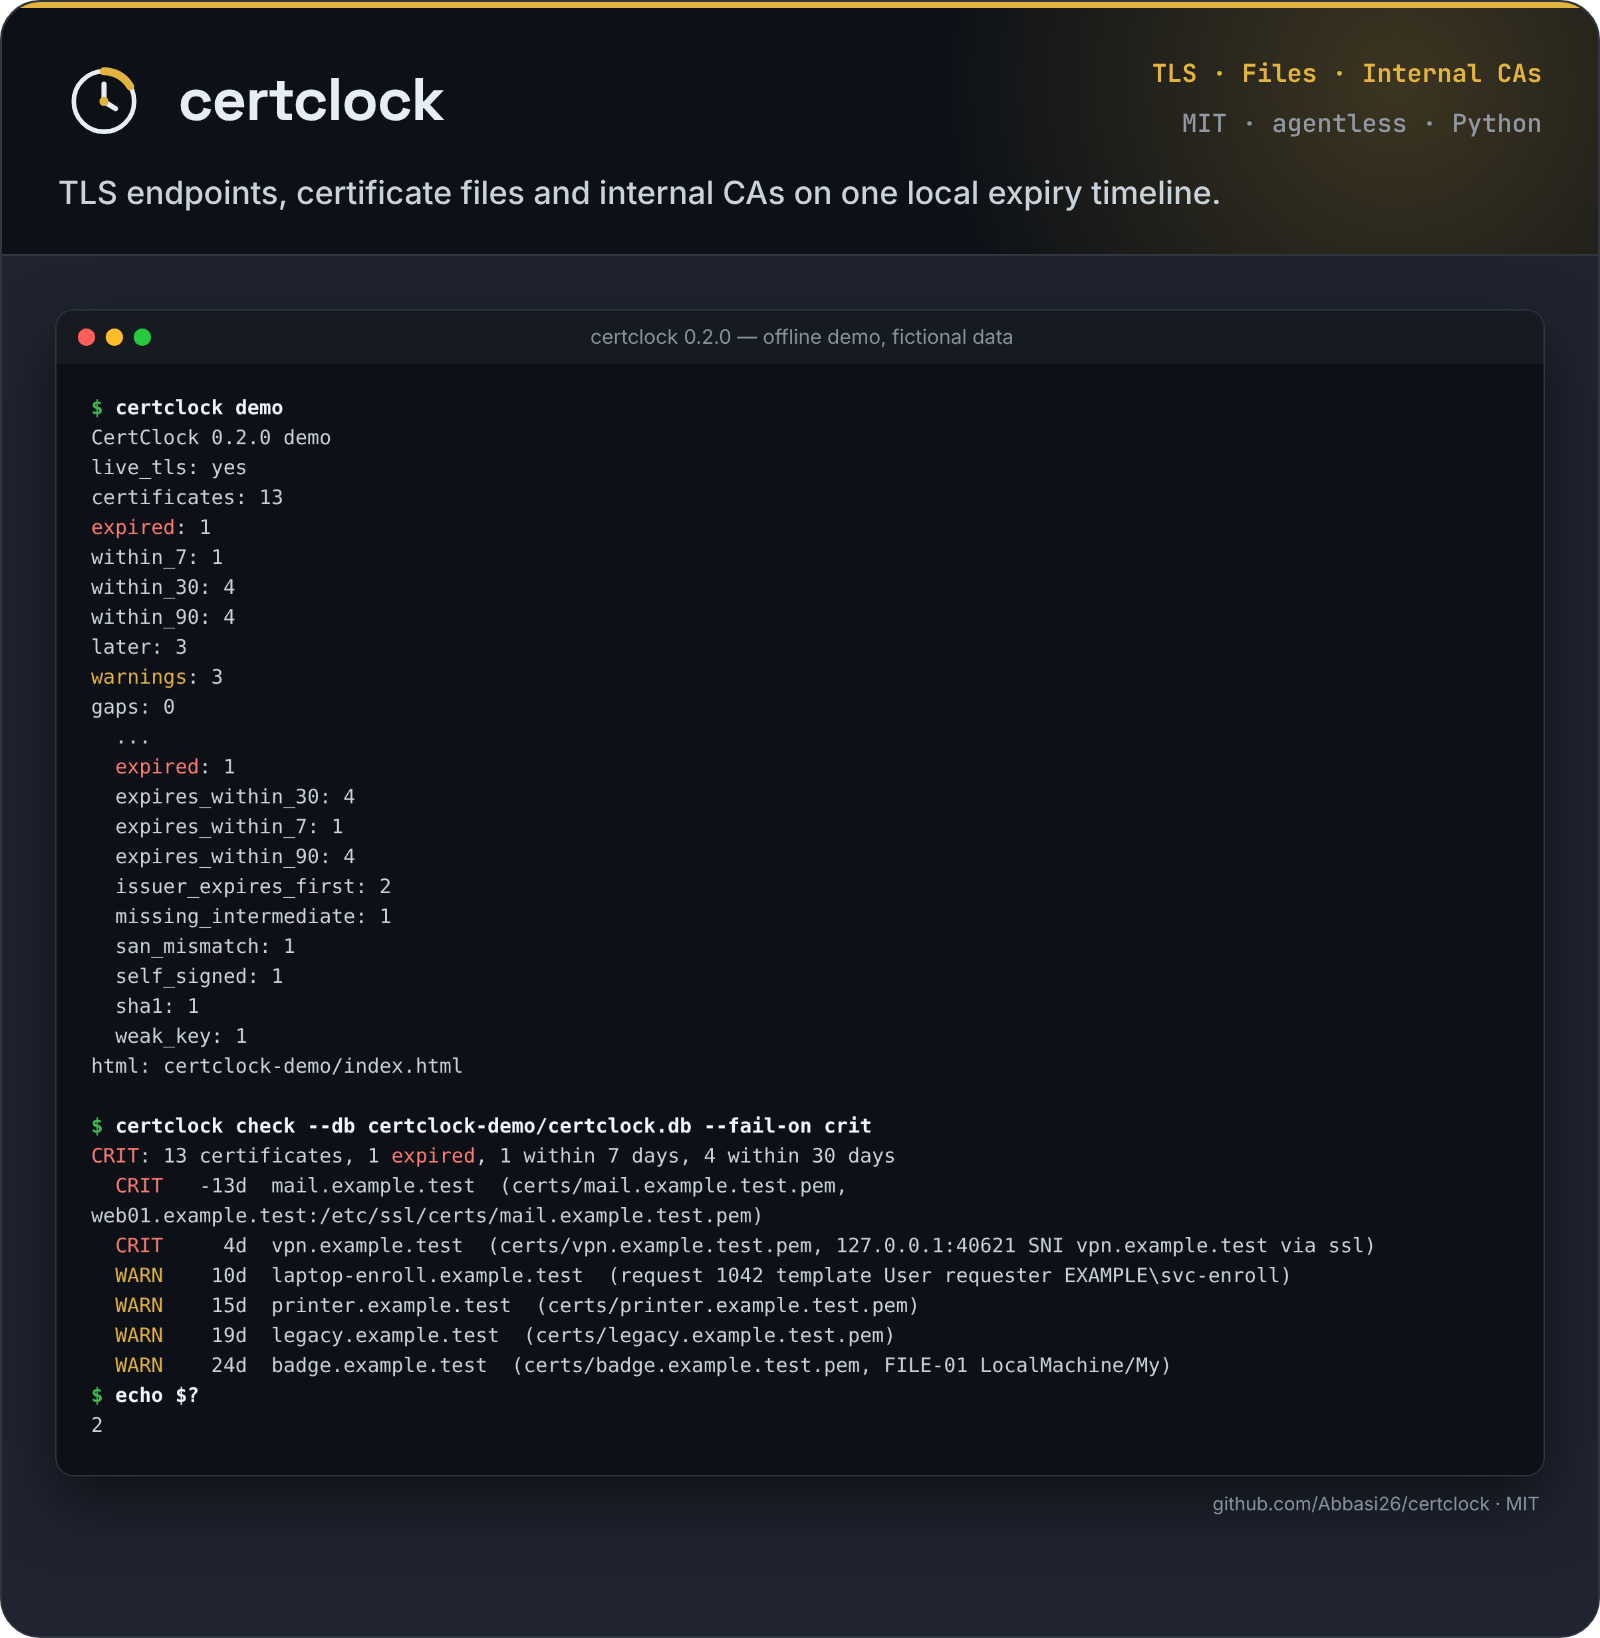
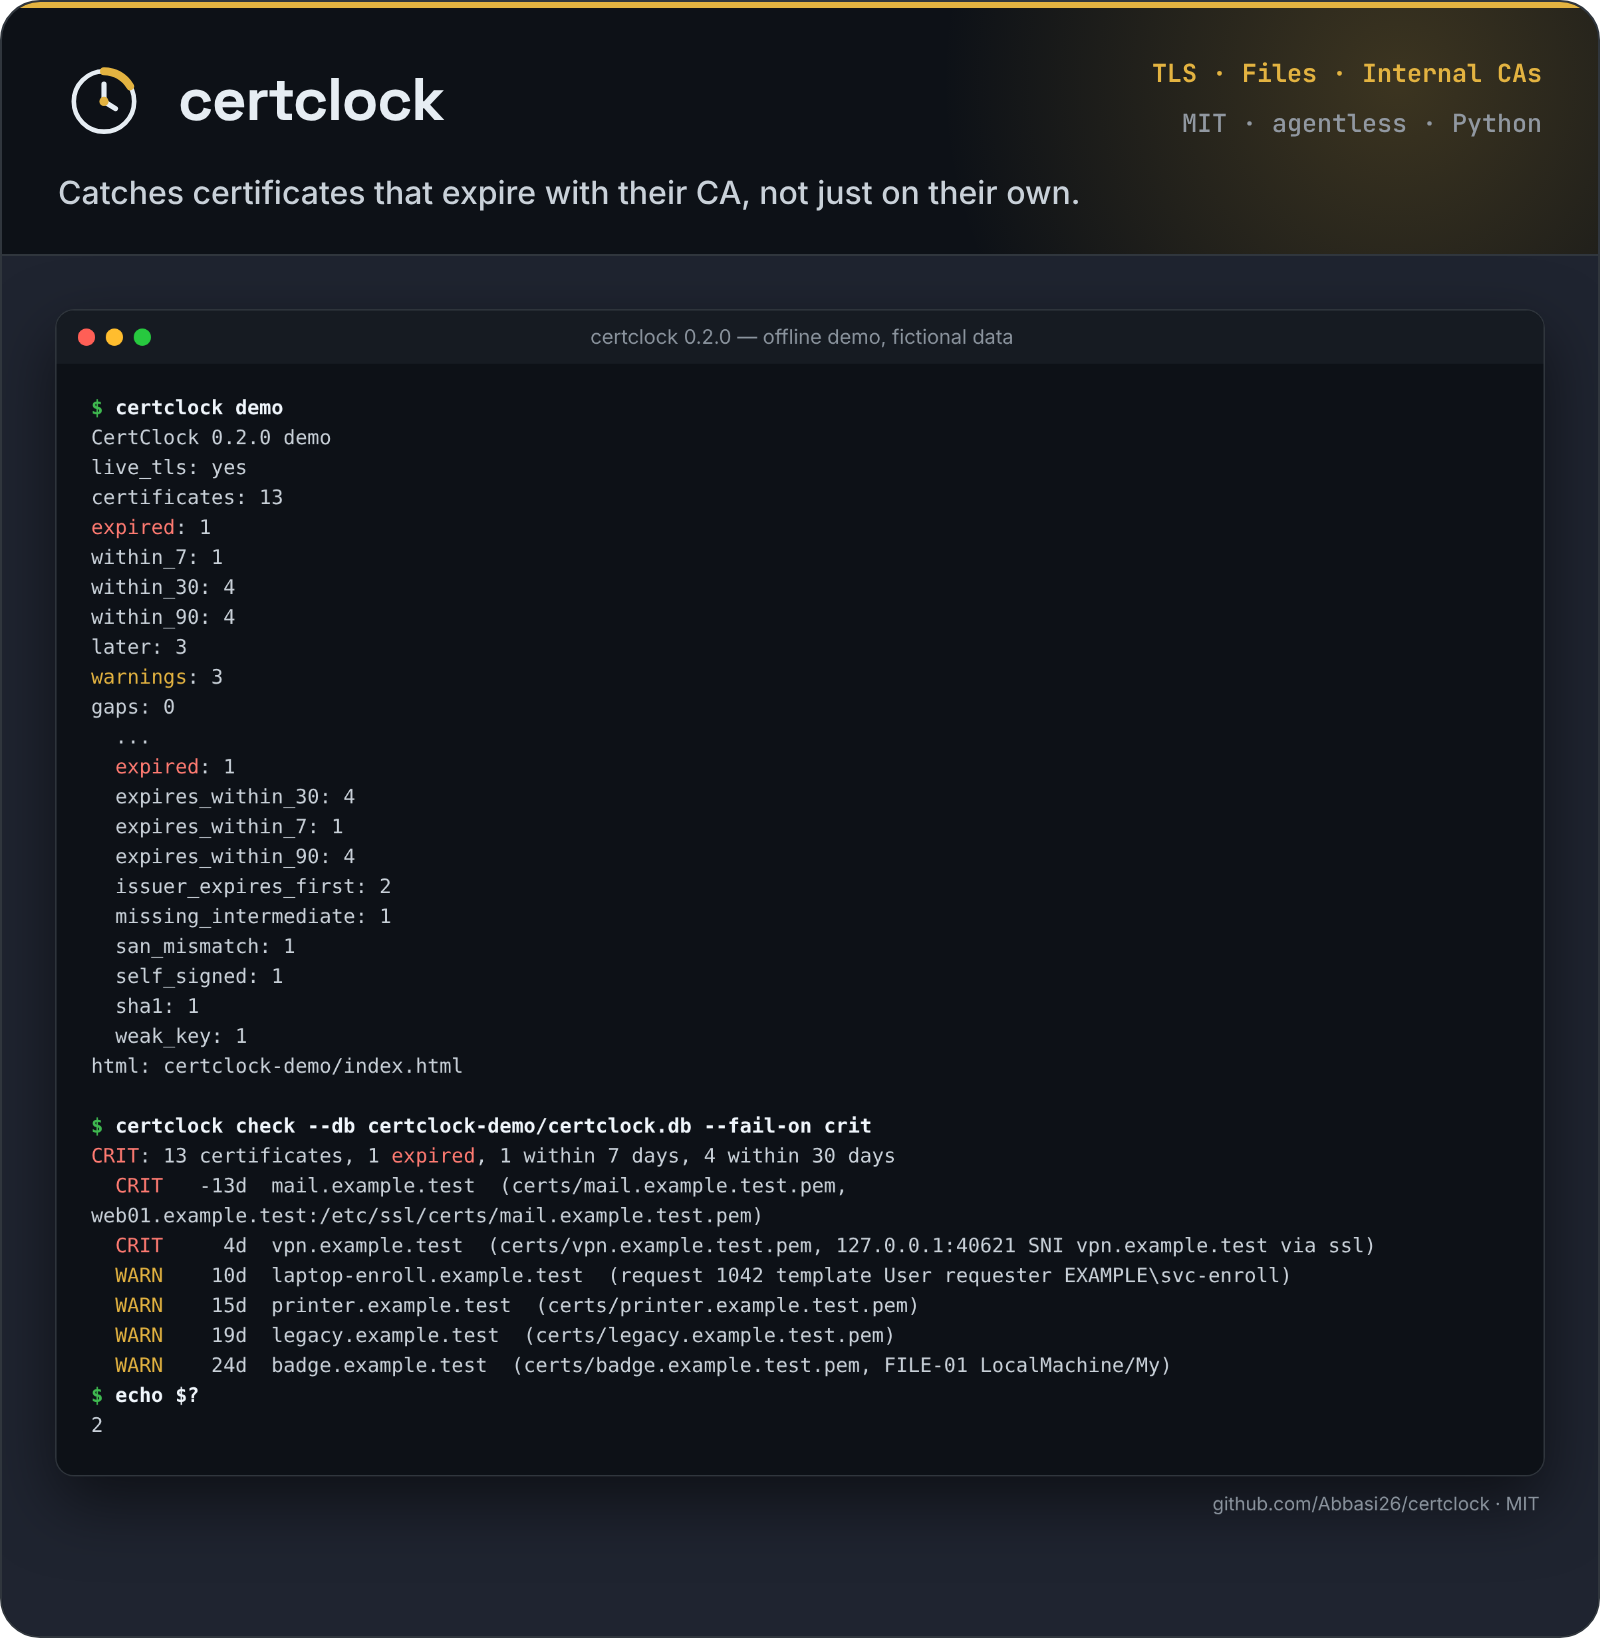
docs: update README header and hero from revised assets
Replaces the hero image, social preview and README header block with the revised design; the original title and the rest of the README are unchanged.

Changed region(s): [[0.0312, 0.0934, 0.75, 0.1245]]

diff --git a/README.md b/README.md
@@ -6,7 +6,7 @@
   </picture>
 </p>
 
-<p align="center">TLS endpoints, certificate files and internal CAs on one local expiry timeline.</p>
+<p align="center">Catches certificates that expire with their CA, not just on their own.</p>
 
 <p align="center">
   <img src="docs/assets/readme-hero.png" width="800" alt="Terminal output of certclock demo: 13 fictional certificates by expiry window and issue type, then certclock check --fail-on crit listing CRIT and WARN certificates and exit code 2.">
